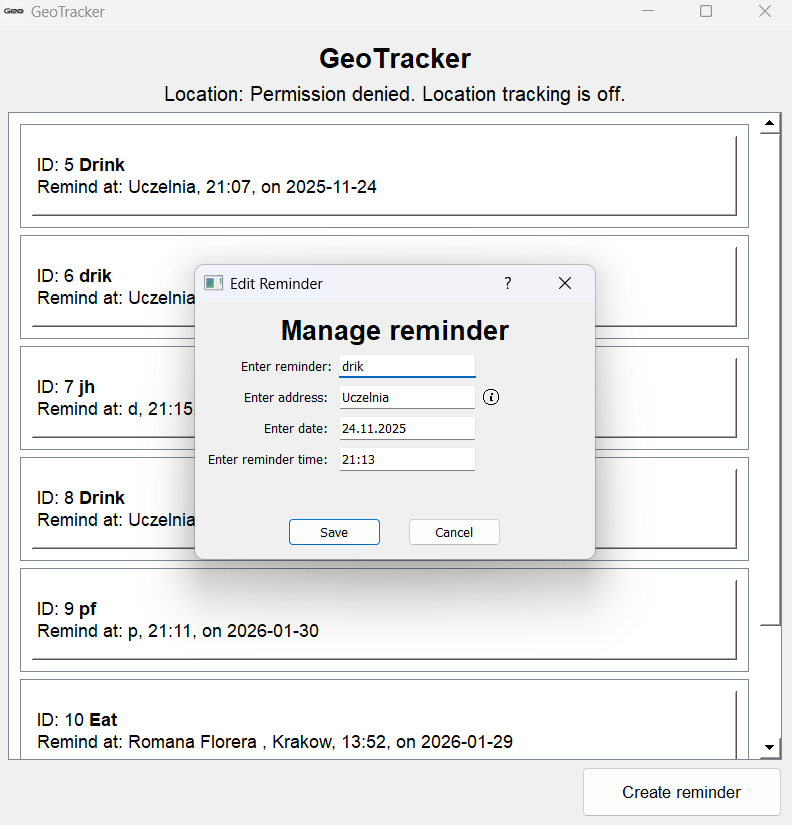
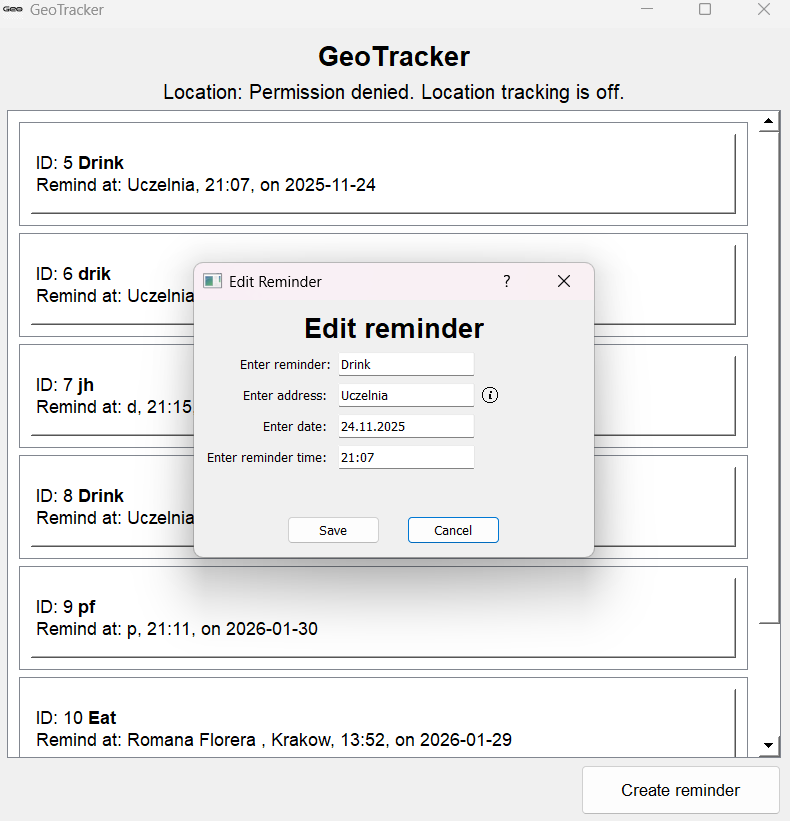
Made minor changes in 'reminder_dialog' script

diff --git a/GUI/reminder_dialog.py b/GUI/reminder_dialog.py
@@ -13,12 +13,12 @@ class setupReminderScreen(QDialog):
 
 
     def _setup_UI(self):
-        self.setWindowTitle("Manage reminder")
+        self.setWindowTitle("Create reminder")
         self.resize(400,200)
 
         self.layout = QGridLayout()
 
-        self.title = QLabel("Manage reminder")
+        self.title = QLabel("Create reminder")
         self.title.setFont(self.font_header)
 
         self.name_reminder = QLabel("Enter reminder:")

diff --git a/Event_manager/manager.py b/Event_manager/manager.py
@@ -64,6 +64,7 @@ class EventManager(QObject):
         self.open_create_reminder_window()
         
         self.reminder_window.setWindowTitle("Edit Reminder")
+        self.reminder_window.title.setText("Edit reminder")
         self.reminder_window.input_reminderName.setText(reminder.name)
         self.reminder_window.input_address.setText(reminder.address)
         self.reminder_window.input_date.setText(reminder.date.strftime("%d.%m.%Y"))
